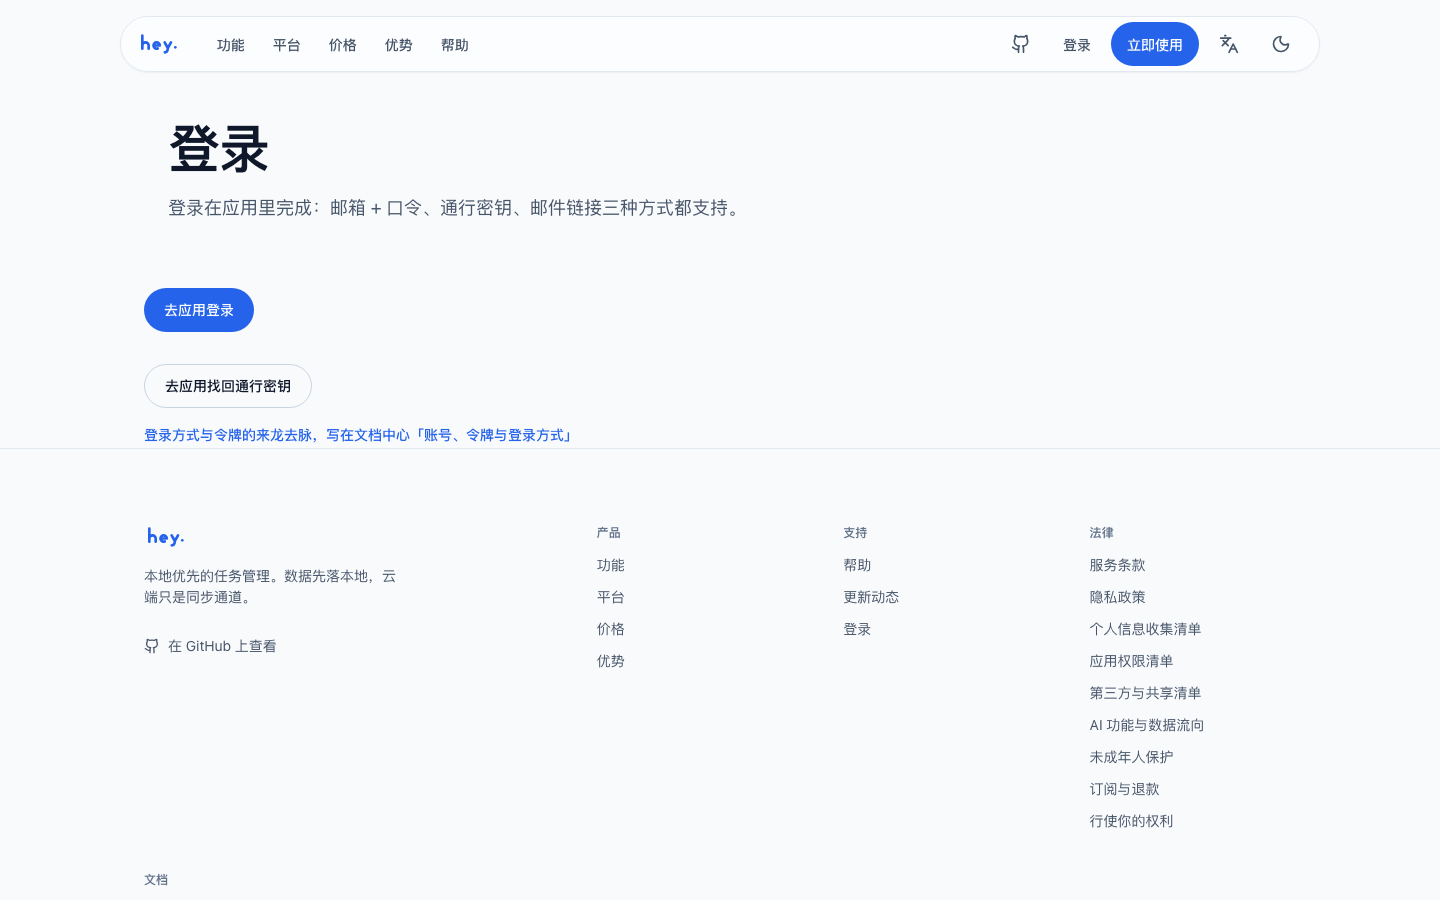
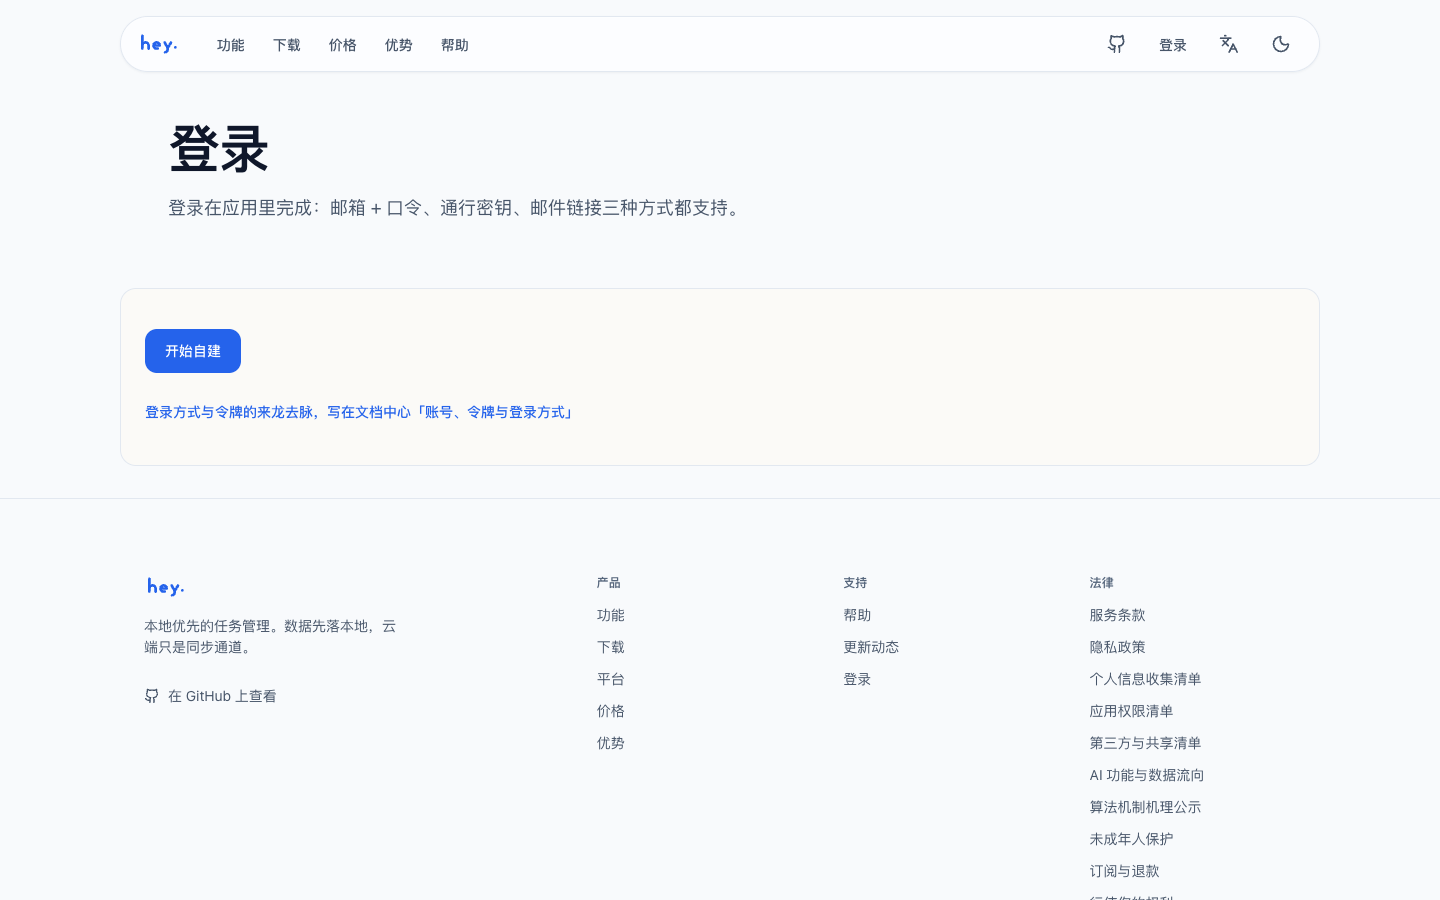
feat(login): 三处登录入口统一到「纸感 + 一圈细线」，与首启页漫画同调
## 范围（先摸清有哪些是真的登录表单）

| 端 | 实现 | 这次 |
|---|---|---|
| landing `/signin` | `SigninPage.tsx`（出口页，不放表单 —— 服务端地址在应用内同步设置里，放表单会"对着 A 登录、令牌存到 B"） | ✅ 视觉重做 |
| web 应用内 | `AuthPanel` + `auth-dialog.css` | ✅ 面板承载改线 |
| mobile | `AuthScreen.tsx`，用 kit 的 `Card` | ✅ Card 加 opt-in 细线 |
| macOS / Windows 壳 | `ShellAuth` 走**系统浏览器反向授权**，壳里没有登录表单 | 不适用 |
| Electron 壳 | renderer 是"共享 UI 垂直切片"demo，未接认证 | 不适用 |

所以"电脑端 / 桌面端"的登录界面**实际不存在**——它们的鉴权发生在系统浏览器里。
我把这一点写进提交而不是假装改了四个端。

## 改了什么

1. **landing `/signin`**：三个出口从"撒在纯白页面上、间距与层级全一样"收成
   **一块纸色卡（`--ht-paper-50`）+ 一条细线 + 大圆角**；按钮圆角与卡片同族。
   不新增变量 —— 纸色族（R15）本来就有。
2. **web 登录面板**：`border: 0` + `shadow-xl` → **一条细线 + `shadow-md`**。
   之前那块"纯白板 + 重投影"在深色首启页后面成立；现在首启页是米白纸底，
   重投影压上去读成"另一套界面"。
3. **mobile `Card` 加 opt-in 的 `outlined`**：默认 `false`，**几十屏观感一字不变**；
   登录页那两处打开。屏幕底改白之后白卡没有边界，但全应用一起加线会改掉几十屏 ——
   所以做成开关，以后哪屏需要单独打开。

## 判据

- `@heyta/ui` 987 tests 全绿；`apps/mobile` / `apps/landing` `tsc --noEmit` 干净
- `check:design`（无硬编码）/ `check:i18n-vars` 全绿
- landing `/signin` 实拍 1440×900：三个出口收进一块纸色卡，主按钮圆角一致
- ⚠ 本机未配 `VITE_APP_URL`，所以截图里主按钮是「开始自建」、且没有「找回通行密钥」那一条
  （`appPathHref` 在没配应用地址时**不猜**——一个指向不存在应用的链接点下去是 404）

diff --git a/apps/landing/src/styles/landing.css b/apps/landing/src/styles/landing.css
@@ -2579,3 +2579,44 @@ h3.lp-legal__h { font-size: var(--ht-font-size-base); }
     font-weight: var(--ht-font-weight-semibold);
   }
 }
+
+/* ── 登录出口页（2026-11-16）──────────────────────────────
+   目的：让 `/signin` 与**应用内首启页**看起来是同一个产品。
+   首启页现在是米白纸底的漫画（见 `assets/illustrations/onboarding/provenance.json`），
+   而这一页此前是纯白背景 + 三个等距链接，读起来像"一张没排版的清单"。
+
+   三处取值都来自 tokens.css，不新增变量：
+   · 底走 `--ht-paper-50`（纸色族已存在，R15）
+   · 边与圆角与产品里其它面同一档（细线 + radius-xl）
+   · 不用阴影：这是**页面内容**，不是浮层。 */
+.lp-signin {
+  display: flex;
+  flex-direction: column;
+  gap: var(--ht-space-3);
+  padding-block: var(--ht-space-10);
+}
+
+.lp-signin .lp-page__cta {
+  margin: 0;
+}
+
+.lp-signin > :first-child {
+  margin-block-start: 0;
+}
+
+/* 三个出口托在一块**纸色**卡上，卡本身不投影 —— 靠一条线立住。 */
+.lp-signin {
+  border: var(--ht-border-width-thin) solid var(--ht-color-border);
+  border-radius: var(--ht-radius-xl);
+  background: var(--ht-paper-50);
+  padding-inline: var(--ht-space-6);
+  margin-block: var(--ht-space-8);
+}
+
+.lp-signin .lp-btn {
+  border-radius: var(--ht-radius-lg);
+}
+
+.lp-signin .lp-prose {
+  margin-block-end: 0;
+}

diff --git a/apps/mobile/src/ui/kit.tsx b/apps/mobile/src/ui/kit.tsx
@@ -984,9 +984,16 @@ export interface CardProps {
   children: React.ReactNode;
   style?: StyleProp<ViewStyle>;
   gap?: GapTier;
+  /** 是否画一圈 `color.border` 细线。默认 `false`（保持既有几十屏的观感不变）。 */
+  outlined?: boolean;
 }
 
-export function Card({ children, style, gap = 'default' }: CardProps): React.JSX.Element {
+export function Card({
+  children,
+  style,
+  gap = 'default',
+  outlined = false,
+}: CardProps): React.JSX.Element {
   const t = useTokens();
   return (
     <View
@@ -997,6 +1004,20 @@ export function Card({ children, style, gap = 'default' }: CardProps): React.JSX
           padding: t['space.4'],
           gap: gapValue(t, gap),
         },
+        /*
+          🔴 2026-11-16：可选的一圈细线。
+
+          屏幕底改白之后，`surface` 白卡压在白底上**没有边界** —— 全应用一起加线会
+          改掉几十屏，所以先做成 opt-in：眼下只有登录页用它（那里内容密度最低、
+          卡片最大，没有线会读成"一整片空白里浮着几行字"）。
+          以后哪一屏需要，单独打开即可，不必再改组件。
+        */
+        outlined
+          ? {
+              borderWidth: t['border-width.thin'],
+              borderColor: t['color.border'],
+            }
+          : null,
         style,
       ]}
     >

diff --git a/apps/web/src/features/auth/auth-dialog.css b/apps/web/src/features/auth/auth-dialog.css
@@ -32,11 +32,21 @@ body:has(.ht-sheet__auth) .ht-compact-rail {
   inline-size: min(100%, calc(var(--ht-layout-modal-max) + var(--ht-layout-detail-width) + var(--ht-space-8)));
   max-block-size: calc(100dvh - var(--ht-space-8));
   overflow-y: auto;
-  border: 0;
+  /*
+    🔴 2026-11-16：登录面板改成「纸感 + 一圈细线」，与首启页那套漫画同一调性。
+
+    之前是 `border: 0` + `shadow-xl` —— 一块**浮在暗遮罩上的纯白板**。
+    那在深色首启页后面成立；现在首启页是米白纸底（`--ht-paper-50`），
+    纯白板 + 重投影压上去会读成"另一套界面"。
+
+    做法与产品里其它面一致（见 `borderless-controls.css` 的收窄说明）：
+    **承载交给一条线，浮起只留一档轻阴影**。
+  */
+  border: var(--ht-border-width-thin) solid var(--ht-color-border);
   border-radius: var(--ht-radius-xl);
   background: var(--ht-color-surface-raised);
   color: var(--ht-color-foreground);
-  box-shadow: var(--ht-shadow-xl);
+  box-shadow: var(--ht-shadow-md);
 }
 
 .ht-sheet__auth-plan {

diff --git a/apps/landing/src/pages/SigninPage.tsx b/apps/landing/src/pages/SigninPage.tsx
@@ -82,7 +82,12 @@ export function SigninPage({ page }: { page: SitePage }): React.JSX.Element {
           套上它会在引言与主行动之间留出一段约 150px 的空洞，
           读起来仍然像页面缺了一块。
       */}
-      <div className="lp-wrap">
+      {/*
+        🔴 2026-11-16：这一页只做"把出口摆好"，但摆法要和应用内首启页一致 ——
+        纸底（`--ht-paper-50`）+ 一块细线卡片托住三个出口。此前三个链接直接撒在
+        纯白页面上，彼此间距一样、层级一样，读起来像一张没排版的清单。
+      */}
+      <div className="lp-wrap lp-signin">
         <p className="lp-page__cta">
           <a
             className="lp-btn lp-btn--primary"

diff --git a/apps/mobile/src/screens/AuthScreen.tsx b/apps/mobile/src/screens/AuthScreen.tsx
@@ -831,7 +831,7 @@ export function AuthScreen({
       >
         <Animated.View style={[{ gap: tokens['space.4'] }, entryStyle]}>
           {passphraseStep && session !== undefined ? (
-            <Card>
+            <Card outlined>
               <View style={layout.stack3}>
                 <View style={layout.stack1}>
                   <Text variant="row-title" tone="success">
@@ -862,7 +862,7 @@ export function AuthScreen({
               </View>
             </Card>
           ) : centralMode ? (
-            <Card>
+            <Card outlined>
               <View style={layout.stack3}>
                 <View style={layout.stack1}>
                   <Text variant="section-title">{t('mobile.auth.title')}</Text>
